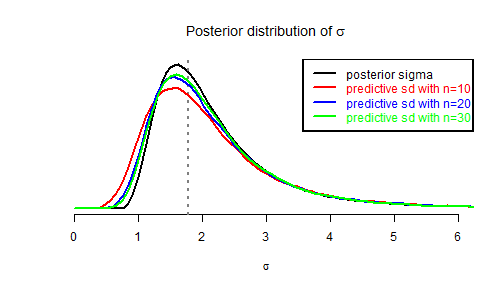
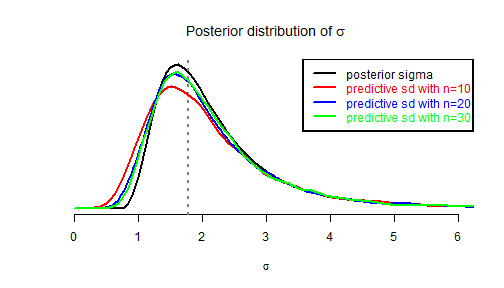
corrections AV1R

diff --git a/posts/Anova1random.html b/posts/Anova1random.html
@@ -161,20 +161,35 @@ whose component formulae are: </p>
 <li><p>\({\bigl(P_{\RR^I\otimes[\indic_J]^\perp}Y\bigr)}_{ij} = Y_{ij}-\bar{Y}_{i\bullet}\) </p></li>
 </ul>
 
-<p>We immediately get that the three summary statistics (<em>overall mean</em>, <em>between sum of squares</em>, <em>within sum of squares</em>)
+<p>Now we can see that the three summary statistics (<em>overall mean</em>, <em>between sum of squares</em>, <em>within sum of squares</em>)
 \[\bar{Y}_{\bullet\bullet}, \quad 
 SS_b(Y):={\Vert P_{[\indic_I]^\perp\otimes[\indic_J]}Y  \Vert}^2, \quad 
 SS_w(Y):={\Vert P_{\RR^I\otimes[\indic_J]^\perp}Y \Vert}^2,\]
-are independent random variables. 
-It is easy to derive \(\bar{Y}_{\bullet\bullet} \sim {\cal N}\left(\mu, \frac{\sigma^2}{IJ}\right)\) with \(\sigma^2=J\sigma^2_b+\sigma^2_w\). 
+are independent random variables.
+Indeed, the overall mean \(\bar{Y}_{\bullet\bullet}\) is given by 
+\[\begin{align}
+P_{[{\bf 1}_I]\otimes[{\bf 1}_J]} Y &= \bar{Y}_{\bullet\bullet}({\bf 1}_I\otimes{\bf 1}_J) \\
+& =  
+\mu({\bf 1}_I\otimes{\bf 1}_J) + \sigma_b(P_{[{\bf 1}_I]}A)\otimes\indic_J +\sigma_wP_{[{\bf 1}_I]\otimes[{\bf 1}_J]}G,
+\end{align}\]
+the between variations are 
+$$P<em>{[\indic_I]<sup>\perp\otimes[\indic_J]}Y</sup> 
+= \sigma_b(P<sup>\perp</sup></em>{[\indic_I]} A)\otimes\indic_J </p>
+
+<ul>
+<li>\sigma<em>w P</em>{[\indic<em>I]<sup>\perp\otimes[\indic_J]}</sup> G,\[
+and the within variations are 
+\]P</em>{\RR<sup>I\otimes[\indic_J]<sup>\perp}Y</sup></sup> 
+= \sigma<em>wP</em>{\RR<sup>I\otimes[\indic_J]<sup>\perp}</sup></sup> G.$$
+Independence follows from the independence b between \(G\) and \(A\) and 
+from the orthogonality between the  ranges of the different projections.</li>
+</ul>
+
+<p>It is easy to derive \(\bar{Y}_{\bullet\bullet} \sim {\cal N}\left(\mu, \frac{\sigma^2}{IJ}\right)\) with \(\sigma^2=J\sigma^2_b+\sigma^2_w\). 
 It is also easy to get \(SS_w(Y) \sim \sigma^2_w\chi^2_{I(J-1)}\) because of 
 \[P_{\RR^I\otimes[\indic_J]^\perp}Y = \sigma_wP_{\RR^I\otimes[\indic_J]^\perp}G.\] 
-Deriving the law of \(SS_b(Y)\) requires a little bit more of algebra. 
-The projection on the &#39;between space&#39; \([\indic_I]^\perp\otimes[\indic_J]\) of the first component \(\mu({\bf 1}_I\otimes{\bf 1}_J)\) of \(Y\) is zero by orthogonality.<br>
-For the second component one has 
-\[P_{[\indic_I]^\perp\otimes[\indic_J]}(A\otimes\indic_J)
-= (P^\perp_{[\indic_I]} A)\otimes\indic_J\]
-and for the third component one has 
+To derive the law of \(SS_b(Y)\), 
+note that 
 \[
 \begin{align}
 P_{[\indic_I]^\perp\otimes[\indic_J]} G 
@@ -185,13 +200,12 @@ P_{[\indic_I]^\perp\otimes[\indic_J]} G
 \end{pmatrix} \\
 & = (P^\perp_{[\indic_I]}G_{\text{row}}) \otimes \indic_J
 \end{align}\]
-where \(G_{\text{row}} = (\bar{G}_{i\bullet})\) is the vector of row means of \(G\). 
-Finally 
+where \(G_{\text{row}} = (\bar{G}_{i\bullet})\) is the vector of row means of \(G\), and then one can write<br>
 \[P_{[\indic_I]^\perp\otimes[\indic_J]} Y 
-= \bigl(P^\perp_{[\indic_I]}(\sigma_b A + \sigma_w G_{\text{row}})\bigr) \otimes \indic_J\]
-and it is easy to see that the components of \(\sigma_b A + \sigma_w G_{\text{row}}\) are 
-\(\sim_{\text{iid}} {\cal N}(0, \sigma^2)\). 
-Consequently, \(SS_b(Y) \sim \sigma^2\chi^2_{J-1}\). </p>
+= \bigl(P^\perp_{[\indic_I]}(\sigma_b A + \sigma_w G_{\text{row}})\bigr) \otimes \indic_J.\]
+Now it is easy to see that the components of \(\sigma_b A + \sigma_w G_{\text{row}}\) are 
+\(\sim_{\text{iid}} {\cal N}(0, \sigma^2)\), and 
+consequently \(SS_b(Y) \sim \sigma^2\chi^2_{J-1}\). </p>
 
 <h2>Confidence interval for the overall mean</h2>
 

diff --git a/posts/samplesize_mean.html b/posts/samplesize_mean.html
@@ -236,7 +236,7 @@ over the posterior distribution of \(\sigma\) which is given by
 
 <p>Thus the posterior predictive distribution of \(sd(y^{\text{new}})\) is very easy to simulate:</p>
 
-<pre><code class="r">nsims &lt;- 60000
+<pre><code class="r">nsims &lt;- 6000
 sdnew.sims &lt;- array(NA, dim = c(nsims, length(n.range)))
 colnames(sdnew.sims) &lt;- names(n.range)
 for (i in 1:nsims) {
@@ -271,11 +271,11 @@ legend(&quot;topright&quot;, legend = c(&quot;posterior sigma&quot;, legend1, le
 </code></pre>
 
 <pre><code>##   n=3   n=4   n=5   n=6   n=7   n=8   n=9  n=10  n=11  n=12  n=13  n=14 
-## 2.832 2.817 2.818 2.814 2.807 2.804 2.802 2.801 2.790 2.798 2.805 2.793 
+## 2.872 2.789 2.775 2.778 2.746 2.785 2.793 2.772 2.818 2.785 2.785 2.774 
 ##  n=15  n=16  n=17  n=18  n=19  n=20  n=21  n=22  n=23  n=24  n=25  n=26 
-## 2.795 2.795 2.801 2.793 2.792 2.796 2.799 2.784 2.789 2.793 2.788 2.788 
+## 2.757 2.811 2.789 2.783 2.785 2.769 2.768 2.746 2.758 2.778 2.763 2.778 
 ##  n=27  n=28  n=29  n=30 
-## 2.786 2.788 2.784 2.788
+## 2.779 2.765 2.742 2.772
 </code></pre>
 
 <p>But wait, instead of using simulations, we will use exact calculations.</p>

diff --git a/posts/ModelReduction.html b/posts/ModelReduction.html
@@ -258,7 +258,7 @@ objects <code>dat</code>, <code>fit1</code>, and <code>fit2</code>.
 We also evaluate, for each model the power of the test for 
 \(H_0\colon\{\alpha_1=0\}\) derived from the confidence interval.</p>
 
-<pre><code class="r">nsims &lt;- 3000
+<pre><code class="r">nsims &lt;- 2000
 confint1 &lt;- confint2 &lt;- NULL
 power1 &lt;- power2 &lt;- rep(NA,nsims)
 local({
@@ -304,13 +304,13 @@ for \(\cal M\):</p>
 <pre><code class="r">mean(power1)
 </code></pre>
 
-<pre><code>## [1] 0.9947
+<pre><code>## [1] 0.9965
 </code></pre>
 
 <pre><code class="r">mean(power2)
 </code></pre>
 
-<pre><code>## [1] 0.7123
+<pre><code>## [1] 0.6995
 </code></pre>
 
 <p>Note that \(H_0\) means that the first factor has no effect, and actually it can 
@@ -402,6 +402,8 @@ F = \frac{MS_A(y)}{MS_{{(1+A+B)}^\perp}(y)}
 \]
 thereby showing that the reducel model \({\cal M}'\) yields a less 
 powerful test. </p>
+
+<h2>Why does it work for the random effects one-way ANOVA model ?</h2>
 
 </div>
               <div id="disqus_thread"></div>

diff --git a/posts/Anova1random.md b/posts/Anova1random.md
@@ -92,20 +92,32 @@ whose component formulae are:
 
 - ${\bigl(P_{\RR^I\otimes[\indic_J]^\perp}Y\bigr)}_{ij} = Y_{ij}-\bar{Y}_{i\bullet}$ 
 
-We immediately get that the three summary statistics (*overall mean*, *between sum of squares*, *within sum of squares*)
+Now we can see that the three summary statistics (*overall mean*, *between sum of squares*, *within sum of squares*)
 $$\bar{Y}_{\bullet\bullet}, \quad 
 SS_b(Y):={\Vert P_{[\indic_I]^\perp\otimes[\indic_J]}Y  \Vert}^2, \quad 
 SS_w(Y):={\Vert P_{\RR^I\otimes[\indic_J]^\perp}Y \Vert}^2,$$
-are independent random variables. 
+are independent random variables.
+Indeed, the overall mean $\bar{Y}_{\bullet\bullet}$ is given by 
+$$\begin{align}
+P_{[{\bf 1}_I]\otimes[{\bf 1}_J]} Y &= \bar{Y}_{\bullet\bullet}({\bf 1}_I\otimes{\bf 1}_J) \\
+& =  
+\mu({\bf 1}_I\otimes{\bf 1}_J) + \sigma_b(P_{[{\bf 1}_I]}A)\otimes\indic_J +\sigma_wP_{[{\bf 1}_I]\otimes[{\bf 1}_J]}G,
+\end{align}$$
+the between variations are 
+$$P_{[\indic_I]^\perp\otimes[\indic_J]}Y 
+= \sigma_b(P^\perp_{[\indic_I]} A)\otimes\indic_J 
++ \sigma_w P_{[\indic_I]^\perp\otimes[\indic_J]} G,$$
+and the within variations are 
+$$P_{\RR^I\otimes[\indic_J]^\perp}Y 
+= \sigma_wP_{\RR^I\otimes[\indic_J]^\perp} G.$$
+Independence follows from the independence b between $G$ and $A$ and 
+from the orthogonality between the  ranges of the different projections.
+
 It is easy to derive $\bar{Y}_{\bullet\bullet} \sim {\cal N}\left(\mu, \frac{\sigma^2}{IJ}\right)$ with $\sigma^2=J\sigma^2_b+\sigma^2_w$. 
 It is also easy to get $SS_w(Y) \sim \sigma^2_w\chi^2_{I(J-1)}$ because of 
 $$P_{\RR^I\otimes[\indic_J]^\perp}Y = \sigma_wP_{\RR^I\otimes[\indic_J]^\perp}G.$$ 
-Deriving the law of $SS_b(Y)$ requires a little bit more of algebra. 
-The projection on the 'between space' $[\indic_I]^\perp\otimes[\indic_J]$ of the first component $\mu({\bf 1}_I\otimes{\bf 1}_J)$ of $Y$ is zero by orthogonality.  
-For the second component one has 
-$$P_{[\indic_I]^\perp\otimes[\indic_J]}(A\otimes\indic_J)
-= (P^\perp_{[\indic_I]} A)\otimes\indic_J$$
-and for the third component one has 
+To derive the law of $SS_b(Y)$, 
+note that 
 $$
 \begin{align}
 P_{[\indic_I]^\perp\otimes[\indic_J]} G 
@@ -116,13 +128,12 @@ P_{[\indic_I]^\perp\otimes[\indic_J]} G
 \end{pmatrix} \\
 & = (P^\perp_{[\indic_I]}G_{\text{row}}) \otimes \indic_J
 \end{align}$$
-where $G_{\text{row}} = (\bar{G}_{i\bullet})$ is the vector of row means of $G$. 
-Finally 
+where $G_{\text{row}} = (\bar{G}_{i\bullet})$ is the vector of row means of $G$, and then one can write  
 $$P_{[\indic_I]^\perp\otimes[\indic_J]} Y 
-= \bigl(P^\perp_{[\indic_I]}(\sigma_b A + \sigma_w G_{\text{row}})\bigr) \otimes \indic_J$$
-and it is easy to see that the components of $\sigma_b A + \sigma_w G_{\text{row}}$ are 
-$\sim_{\text{iid}} {\cal N}(0, \sigma^2)$. 
-Consequently, $SS_b(Y) \sim \sigma^2\chi^2_{J-1}$. 
+= \bigl(P^\perp_{[\indic_I]}(\sigma_b A + \sigma_w G_{\text{row}})\bigr) \otimes \indic_J.$$
+Now it is easy to see that the components of $\sigma_b A + \sigma_w G_{\text{row}}$ are 
+$\sim_{\text{iid}} {\cal N}(0, \sigma^2)$, and 
+consequently $SS_b(Y) \sim \sigma^2\chi^2_{J-1}$. 
 
 
 ## Confidence interval for the overall mean 

diff --git a/posts/samplesize_mean.md b/posts/samplesize_mean.md
@@ -190,7 +190,7 @@ $$\frac{1}{\sigma^2} \sim {\cal G}\left(\frac{n_0-1}{2},\frac{(n_0-1)sd^2(y_0)}{
 Thus the posterior predictive distribution of $sd(y^{\text{new}})$ is very easy to simulate:
 
 ```r
-nsims <- 60000
+nsims <- 6000
 sdnew.sims <- array(NA, dim = c(nsims, length(n.range)))
 colnames(sdnew.sims) <- names(n.range)
 for (i in 1:nsims) {
@@ -228,11 +228,11 @@ apply(sdnew.sims, 2, FUN = function(x) quantile(x, probs = 80/100))
 
 ```
 ##   n=3   n=4   n=5   n=6   n=7   n=8   n=9  n=10  n=11  n=12  n=13  n=14 
-## 2.832 2.817 2.818 2.814 2.807 2.804 2.802 2.801 2.790 2.798 2.805 2.793 
+## 2.872 2.789 2.775 2.778 2.746 2.785 2.793 2.772 2.818 2.785 2.785 2.774 
 ##  n=15  n=16  n=17  n=18  n=19  n=20  n=21  n=22  n=23  n=24  n=25  n=26 
-## 2.795 2.795 2.801 2.793 2.792 2.796 2.799 2.784 2.789 2.793 2.788 2.788 
+## 2.757 2.811 2.789 2.783 2.785 2.769 2.768 2.746 2.758 2.778 2.763 2.778 
 ##  n=27  n=28  n=29  n=30 
-## 2.786 2.788 2.784 2.788
+## 2.779 2.765 2.742 2.772
 ```
 
 But wait, instead of using simulations, we will use exact calculations.

diff --git a/posts/ModelReduction.md b/posts/ModelReduction.md
@@ -162,7 +162,7 @@ $H_0\colon\{\alpha_1=0\}$ derived from the confidence interval.
 
 
 ```r
-nsims <- 3000
+nsims <- 2000
 confint1 <- confint2 <- NULL
 power1 <- power2 <- rep(NA,nsims)
 local({
@@ -212,7 +212,7 @@ mean(power1)
 ```
 
 ```
-## [1] 0.9947
+## [1] 0.9965
 ```
 
 ```r
@@ -220,7 +220,7 @@ mean(power2)
 ```
 
 ```
-## [1] 0.7123
+## [1] 0.6995
 ```
 
 
@@ -329,4 +329,7 @@ $$
 thereby showing that the reducel model ${\cal M}'$ yields a less 
 powerful test. 
 
- 
+
+## Why does it work for the random effects one-way ANOVA model ?
+
+
